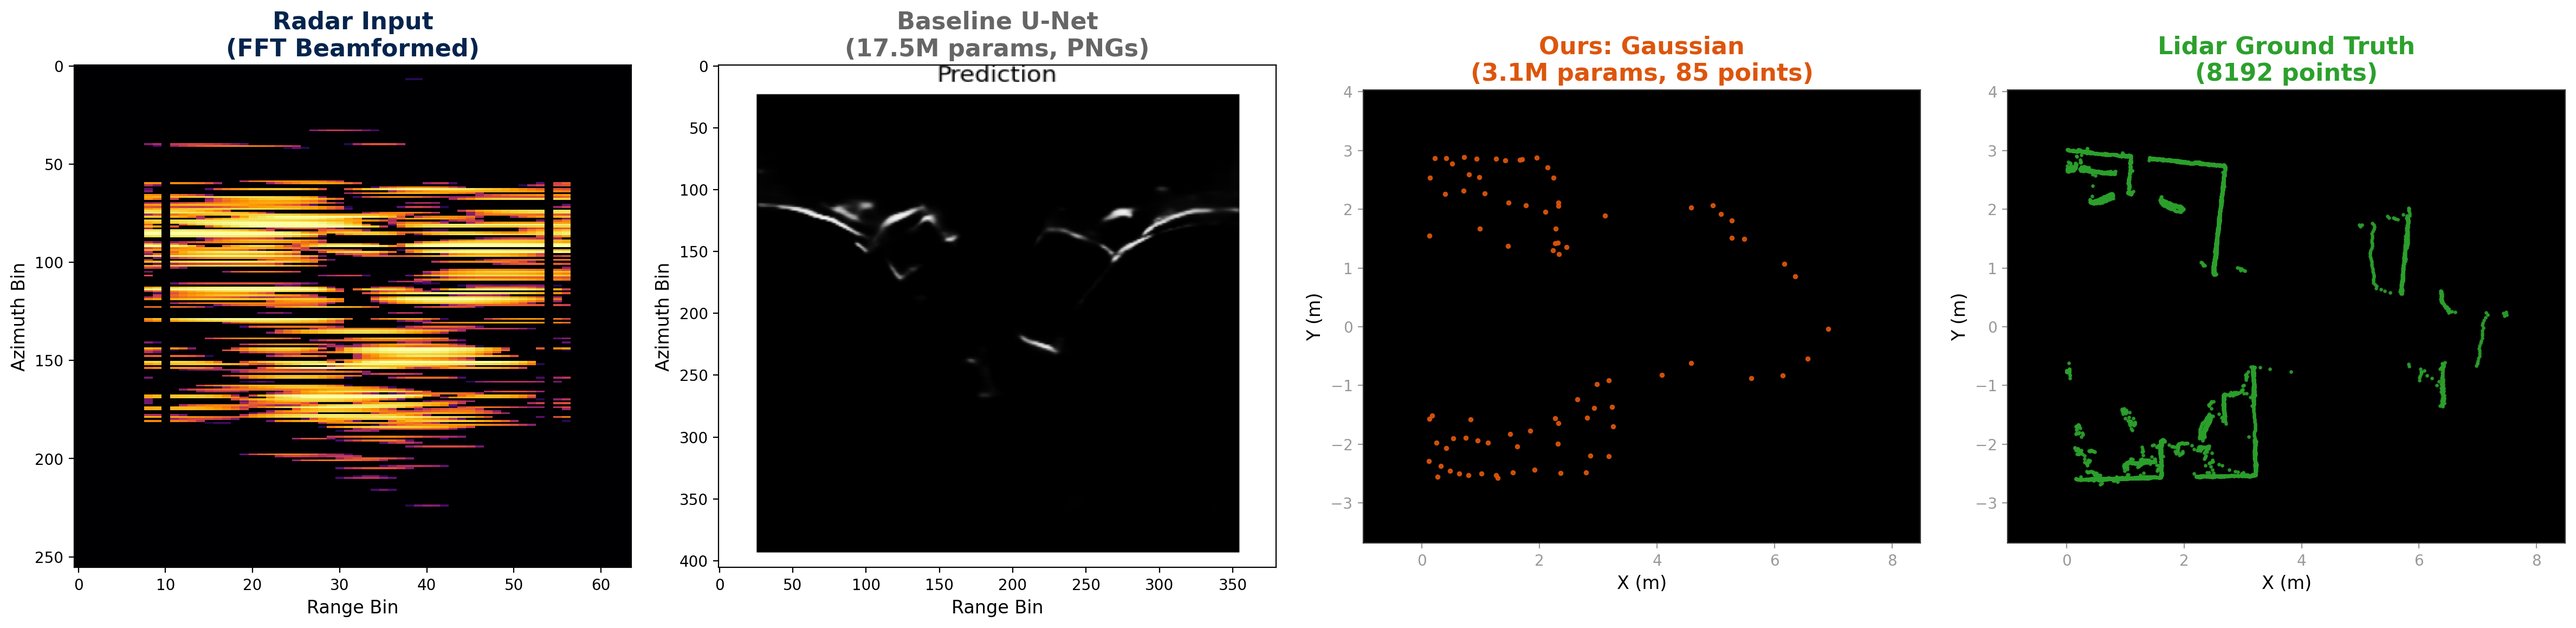
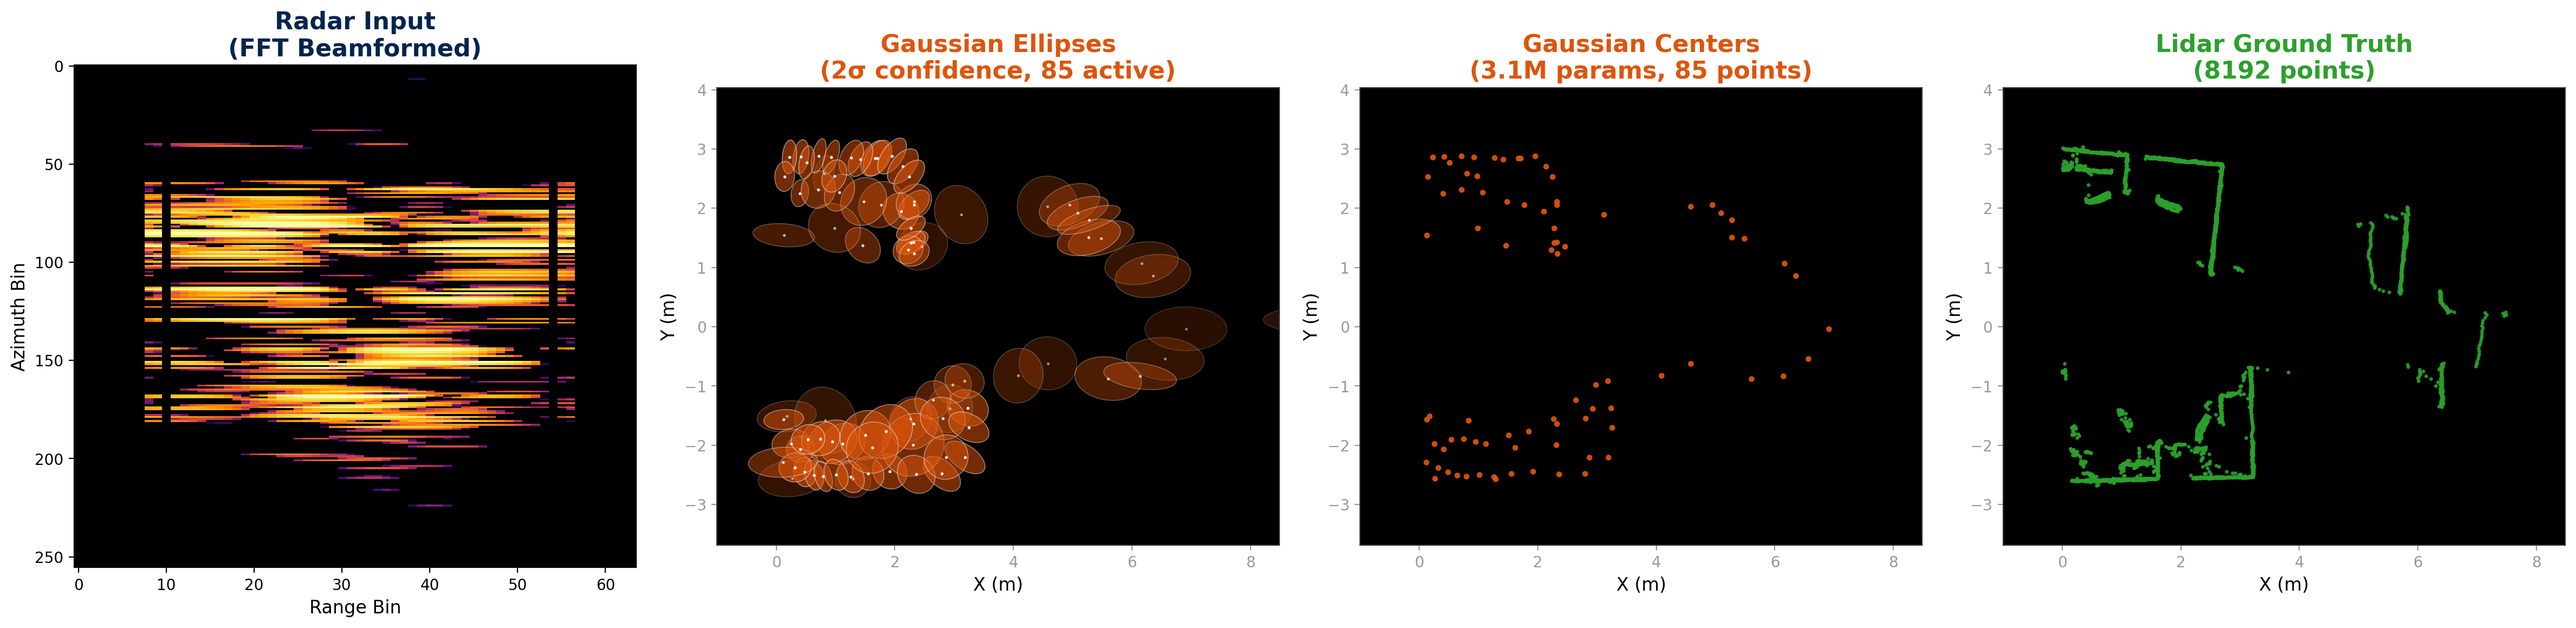
feat(poster): 4-panel comparison — radar, Gaussian ellipses, Gaussian points, lidar GT

diff --git a/poster/gen_comparison.py b/poster/gen_comparison.py
@@ -35,15 +35,7 @@ lidar_img = np.array(Image.open(LIDAR_PNG).convert("L")).astype(np.float32)
 # Enhance radar: log scale + viridis colormap to make returns visible
 radar_enhanced = np.log1p(radar_img)
 
-# ── Extract baseline prediction from the 3-panel plot ────────────────────────
-baseline_plot = np.array(Image.open(BASELINE_PLOT).convert("L")).astype(np.float32)
-# The baseline plot has 3 panels side by side with labels on top
-# Crop the middle panel (Prediction)
-h, w = baseline_plot.shape
-panel_w = w // 3
-# Skip ~40px header for labels
-header = 50
-baseline_pred = baseline_plot[header:, panel_w:2*panel_w]
+from matplotlib.patches import Ellipse
 
 # ── Run Gaussian model inference ─────────────────────────────────────────────
 from model.physics_frontend import PhysicsGaussianModel
@@ -98,14 +90,26 @@ radar_window = radar_pt[indices]  # (41, 8, 512) complex
 radar_batch = radar_window.unsqueeze(0).to(device)  # (1, 41, 8, 512)
 
 with torch.no_grad():
-    out = model(radar_batch)  # dict with 'mu_xy', 'existence', etc.
+    out = model(radar_batch)  # dict with 'mu_xy', 'mu_r', 'mu_phi', 'sigma_r', 'sigma_perp', 'existence'
     gaussian_pts_list = model.predict_points(radar_batch, threshold=0.3)
     gaussian_pts = gaussian_pts_list[0].cpu().numpy()  # (N, 2) — x, y
-    existence_prob = torch.sigmoid(out['existence'][0]).cpu().numpy()
+    existence_prob = torch.sigmoid(out['existence'][0]).cpu().numpy()  # (K,)
+    mu_xy = out['mu_xy'][0].cpu().numpy()  # (K, 2)
+    mu_r = out['mu_r'][0].cpu().numpy()  # (K,)
+    mu_phi = out['mu_phi'][0].cpu().numpy()  # (K,)
+    sigma_r = out['sigma_r'][0].cpu().numpy()  # (K,)
+    sigma_perp = out['sigma_perp'][0].cpu().numpy()  # (K,)
     n_above = (existence_prob > 0.3).sum()
 
 # Also get lidar GT points for this frame
 lidar_gt = lidar_pt[center].cpu().numpy()  # (M, 3) or (M, 2)
+
+# ── Auto-range from lidar GT ─────────────────────────────────────────────────
+if len(lidar_gt) > 0:
+    xmin, xmax = lidar_gt[:, 0].min() - 1, lidar_gt[:, 0].max() + 1
+    ymin, ymax = lidar_gt[:, 1].min() - 1, lidar_gt[:, 1].max() + 1
+else:
+    xmin, xmax, ymin, ymax = -12, 12, 0, 12
 
 # ── Create 4-panel figure ────────────────────────────────────────────────────
 fig, axes = plt.subplots(1, 4, figsize=(24, 6), facecolor="white")
@@ -118,29 +122,45 @@ ax.set_xlabel("Range Bin", fontsize=12)
 ax.set_ylabel("Azimuth Bin", fontsize=12)
 ax.tick_params(labelsize=10)
 
-# Panel 2: Baseline U-Net Prediction
+# Panel 2: Gaussian Ellipses (showing uncertainty before collapsing to points)
 ax = axes[1]
-ax.imshow(baseline_pred, cmap="gray", aspect="auto")
-ax.set_title("Baseline U-Net\n(17.5M params, PNGs)", fontsize=16, fontweight="bold", color="#666")
-ax.set_xlabel("Range Bin", fontsize=12)
-ax.set_ylabel("Azimuth Bin", fontsize=12)
-ax.tick_params(labelsize=10)
+ax.set_facecolor("black")
+mask = existence_prob > 0.3
+for i in range(len(mu_xy)):
+    if not mask[i]:
+        continue
+    x, y = mu_xy[i]
+    # Ellipse axes: sigma_perp is perpendicular to radial direction, sigma_r is radial
+    # Orientation: angle from mu_phi (radial direction)
+    angle_deg = np.degrees(mu_phi[i])
+    # 2-sigma ellipse (95% confidence)
+    w = 2 * sigma_perp[i] * 2  # width = perpendicular axis (2-sigma)
+    h = 2 * sigma_r[i] * 2     # height = radial axis (2-sigma)
+    alpha = min(1.0, existence_prob[i])
+    e = Ellipse((x, y), width=w, height=h, angle=angle_deg,
+                facecolor=ORANGE, edgecolor="white", linewidth=0.5,
+                alpha=alpha * 0.6)
+    ax.add_patch(e)
+    # Small dot at center
+    ax.plot(x, y, '.', color="white", markersize=2, alpha=alpha)
+ax.set_xlim(xmin, xmax)
+ax.set_ylim(ymin, ymax)
+ax.set_aspect("equal")
+ax.set_title(f"Gaussian Ellipses\n(2σ confidence, {n_above} active)", fontsize=16, fontweight="bold", color=ORANGE)
+ax.set_xlabel("X (m)", fontsize=12)
+ax.set_ylabel("Y (m)", fontsize=12)
+ax.tick_params(labelsize=10, colors="#999")
+ax.spines[:].set_color("#333")
 
-# Panel 3: Gaussian Model (Ours) — scatter plot of predicted points
+# Panel 3: Gaussian Points (centers only, after existence filtering)
 ax = axes[2]
 if len(gaussian_pts) > 0:
-    ax.scatter(gaussian_pts[:, 0], gaussian_pts[:, 1], s=6, c=ORANGE, alpha=0.9)
-# Auto-range from lidar GT
-if len(lidar_gt) > 0:
-    xmin, xmax = lidar_gt[:, 0].min() - 1, lidar_gt[:, 0].max() + 1
-    ymin, ymax = lidar_gt[:, 1].min() - 1, lidar_gt[:, 1].max() + 1
-else:
-    xmin, xmax, ymin, ymax = -12, 12, 0, 12
+    ax.scatter(gaussian_pts[:, 0], gaussian_pts[:, 1], s=8, c=ORANGE, alpha=0.9)
 ax.set_xlim(xmin, xmax)
 ax.set_ylim(ymin, ymax)
 ax.set_aspect("equal")
 ax.set_facecolor("black")
-ax.set_title(f"Ours: Gaussian\n(3.1M params, {n_above} points)", fontsize=16, fontweight="bold", color=ORANGE)
+ax.set_title(f"Gaussian Centers\n(3.1M params, {n_above} points)", fontsize=16, fontweight="bold", color=ORANGE)
 ax.set_xlabel("X (m)", fontsize=12)
 ax.set_ylabel("Y (m)", fontsize=12)
 ax.tick_params(labelsize=10, colors="#999")
